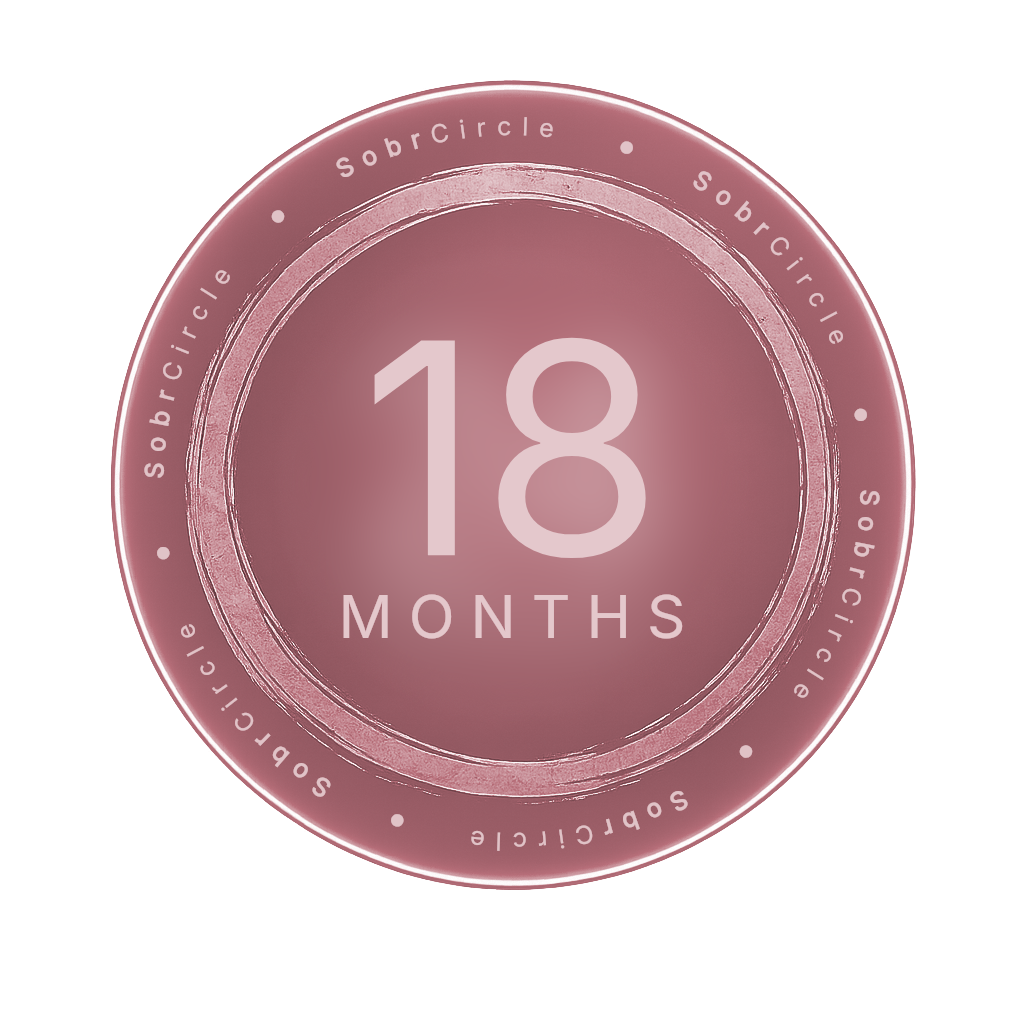
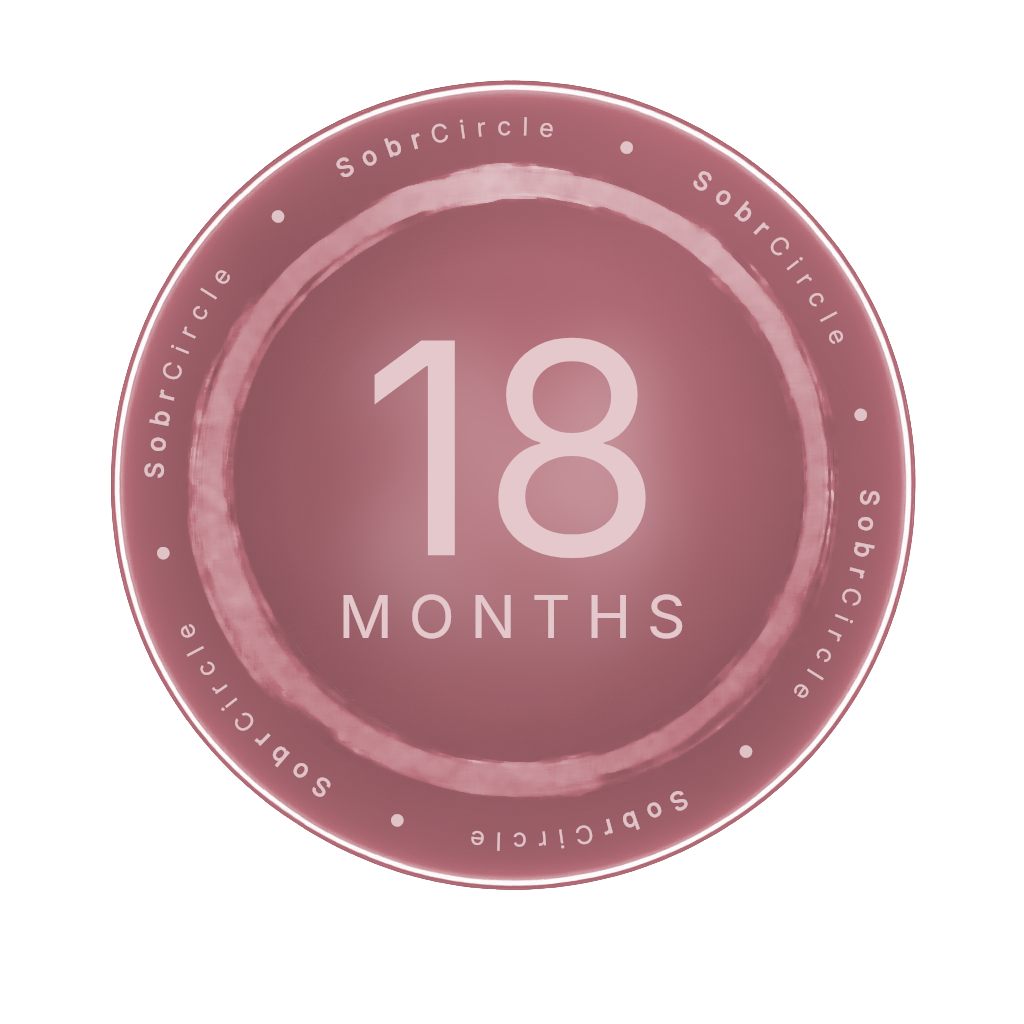
Median-filter the chrome ring to clean brushwork while keeping edges
New medianFilterRing pass: replaces each pixel's RGB in the ring annulus
with the median of its 9×9 neighborhood. Wide enough to swallow the
3–4 px brush strokes; sharp transitions (ring edges, halo line) survive
because the median preserves edges. Alpha is left untouched. Inner and
outer 8 px feathers blend the filtered band into the unmodified disc
and halo so there's no hard transition.

https://claude.ai/code/session_01TqmVcPLJNZuf7Q6XCPWgNk

Changed region(s): [[0.1562, 0.1562, 0.8438, 0.7812]]

diff --git a/scripts/generate-badges.ts b/scripts/generate-badges.ts
@@ -377,6 +377,98 @@ function applyTint(ctx: SKRSContext2D, hex: string) {
   ctx.putImageData(img, 0, 0)
 }
 
+// Median-filter the chrome ring annulus to remove brushwork noise while
+// keeping the ring's inner and outer edges crisp. For each pixel in the
+// ring band we replace its R/G/B with the median of the 5×5 neighborhood
+// — outliers (the bright/dark scratches) drop out, the underlying smooth
+// gradient survives. Alpha is left untouched. A small feather at the
+// inner and outer band edges blends the filtered ring into the unmodified
+// disc + halo so there's no hard transition.
+function medianFilterRing(canvas: any) {
+  const ctx = canvas.getContext('2d')
+  const img = ctx.getImageData(0, 0, SIZE, SIZE)
+  const src = img.data
+  const dst = new Uint8ClampedArray(src.length)
+  dst.set(src)
+
+  const w = SIZE
+  const half = 4 // 9x9 kernel — wide enough to swallow 3–4 px brush strokes
+  // Active band — pixels here get fully replaced by the median.
+  const inR = 270
+  const outR = 378
+  // Feather widths — pixels in these annular shells blend median with original.
+  const feather = 8
+  const inMin2 = (inR - feather) * (inR - feather)
+  const inMax2 = inR * inR
+  const outMin2 = outR * outR
+  const outMax2 = (outR + feather) * (outR + feather)
+
+  // Reusable neighborhood arrays (avoid allocating each pixel).
+  const k = (half * 2 + 1) ** 2
+  const rs = new Uint8Array(k)
+  const gs = new Uint8Array(k)
+  const bs = new Uint8Array(k)
+  const midIdx = Math.floor(k / 2)
+
+  for (let y = half; y < SIZE - half; y++) {
+    const dy = y - CY
+    const dy2 = dy * dy
+    for (let x = half; x < SIZE - half; x++) {
+      const dx = x - CX
+      const r2 = dx * dx + dy2
+      if (r2 < inMin2 || r2 > outMax2) continue
+
+      const i = (y * w + x) * 4
+      if (src[i + 3] === 0) continue
+
+      // Collect the 5×5 neighborhood for each channel.
+      let n = 0
+      for (let ky = -half; ky <= half; ky++) {
+        for (let kx = -half; kx <= half; kx++) {
+          const ki = ((y + ky) * w + (x + kx)) * 4
+          rs[n] = src[ki]
+          gs[n] = src[ki + 1]
+          bs[n] = src[ki + 2]
+          n++
+        }
+      }
+      // Median of k samples = sort and take the middle index.
+      sortInPlace(rs)
+      sortInPlace(gs)
+      sortInPlace(bs)
+      const mr = rs[midIdx]
+      const mg = gs[midIdx]
+      const mb = bs[midIdx]
+
+      // Feather blend: 0 at outer feather edge → 1 in active band → 0 at inner feather edge.
+      let blend = 1
+      if (r2 < inMax2) blend = (r2 - inMin2) / (inMax2 - inMin2)
+      else if (r2 > outMin2) blend = 1 - (r2 - outMin2) / (outMax2 - outMin2)
+      blend = Math.max(0, Math.min(1, blend))
+
+      dst[i]     = Math.round(src[i]     * (1 - blend) + mr * blend)
+      dst[i + 1] = Math.round(src[i + 1] * (1 - blend) + mg * blend)
+      dst[i + 2] = Math.round(src[i + 2] * (1 - blend) + mb * blend)
+      // alpha untouched (already copied)
+    }
+  }
+
+  ctx.putImageData(new img.constructor(dst, SIZE), 0, 0)
+}
+
+function sortInPlace(a: Uint8Array) {
+  // Insertion sort for short arrays — faster than Array.sort here.
+  for (let i = 1; i < a.length; i++) {
+    const v = a[i]
+    let j = i - 1
+    while (j >= 0 && a[j] > v) {
+      a[j + 1] = a[j]
+      j--
+    }
+    a[j + 1] = v
+  }
+}
+
 async function renderBadge(template: any, d: Duration): Promise<Buffer> {
   // Pre-tint the template so the disc-gray anchor maps exactly to the
   // assigned color. Doing this first (rather than at the end) avoids the
@@ -385,6 +477,7 @@ async function renderBadge(template: any, d: Duration): Promise<Buffer> {
   const tctx = tinted.getContext('2d')
   tctx.drawImage(template, 0, 0, SIZE, SIZE)
   applyTint(tctx, d.color)
+  medianFilterRing(tinted)
 
   const canvas = createCanvas(SIZE, SIZE)
   const ctx = canvas.getContext('2d')
